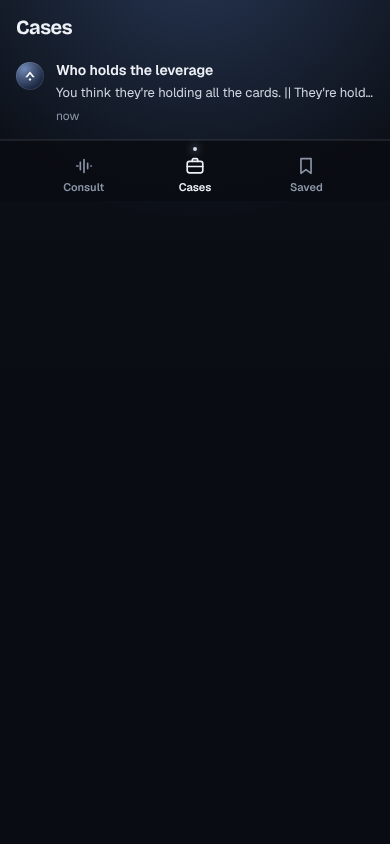
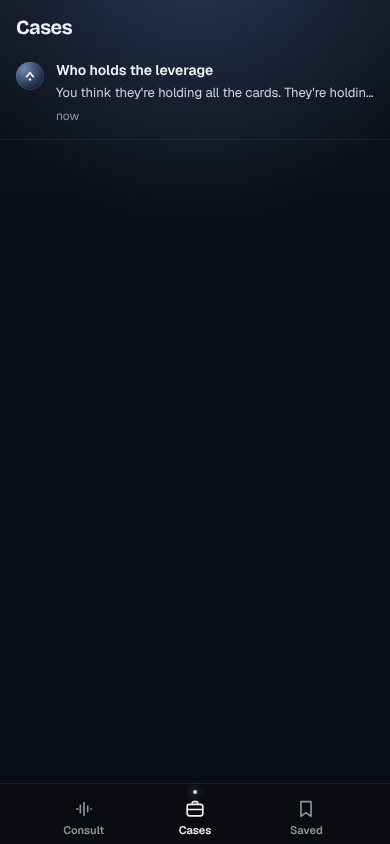
fix: the tab bar sat in the middle of three screens, and the cases excerpt leaked pause marks
Cases, saved and settings all wrap their content in main.screen-main. There is
no .screen-main rule in globals.css, so that region never grew to fill the
screen and the tab bar, which follows it in normal flow, rode up directly under
the content. On the saved tab's empty state it sat roughly 590 pixels above the
bottom of the phone with nothing below it. The empty states did not centre
either, since they use flex: 1 inside a parent that was not a flex container.

Defines .screen-main as the full bleed equivalent of .body: same growth, no
side gutter, because the rows carry their own padding and the dividers run edge
to edge.

Third defect of the same kind on this branch, after the five undefined tokens
and the missing .cta rule. An undefined class or custom property fails silently
rather than loudly, so nothing in build, typecheck or review catches it.

Separately, the cases list rendered the spoken line raw, so rows read "You
think they're holding all the cards. || They're holding a bluff." The marks are
a speech instruction, not punctuation, and screens.md section 11 already
specifies the excerpt with marks stripped (B1).

Two e2e tests added: the tab bar ends within 40 pixels of the bottom on all
three tabs, and no bar character survives into a cases row. The audit also now
waits for each list screen to finish streaming before screenshotting, since
two shots had caught loading.tsx instead of the screen.

E2e: 24 to 26, of which 22 run.
[…]

diff --git a/tests/e2e/audit.spec.ts b/tests/e2e/audit.spec.ts
@@ -118,13 +118,18 @@ test.describe("phone width and accessibility", () => {
     await checkScreen(page, "04-result");
 
     await page.goto("/cases");
+    await expect(page.getByTestId("case-row").first()).toBeVisible();
     await checkScreen(page, "05-cases");
 
     await page.getByTestId("tab-saved").click();
     await expect(page).toHaveURL(/\/saved$/);
+    // The URL changes before the server component streams, so without this the
+    // screenshot is of loading.tsx rather than the screen.
+    await expect(page.getByRole("heading", { name: "Saved" })).toBeVisible();
     await checkScreen(page, "06-saved-empty");
 
     await page.goto("/settings");
+    await expect(page.getByRole("heading", { name: "Settings" })).toBeVisible();
     await checkScreen(page, "07-settings");
 
     await page.goto("/offline");
@@ -132,6 +137,33 @@ test.describe("phone width and accessibility", () => {
 
     await page.goto("/not-a-real-route");
     await checkScreen(page, "09-not-found");
+  });
+
+  test("the tab bar sits at the bottom of every tab, not under the content", async ({ page }) => {
+    await onboardAsGuest(page);
+    await consult(page, "My landlord wants a twenty percent rent rise and I have two weeks to answer.");
+
+    for (const path of ["/cases", "/saved", "/settings"]) {
+      await page.goto(path);
+      const bar = page.getByTestId("tab-cases").locator("..");
+      const box = await bar.boundingBox();
+      expect(box, `${path}: tab bar not found`).not.toBeNull();
+      const viewport = page.viewportSize()!;
+      // The screen container has to grow for the bar to reach the bottom. When
+      // .screen-main was undefined it did not, and the bar rode up under the
+      // content, roughly 600 pixels above where it belongs.
+      expect(viewport.height - (box!.y + box!.height), `${path}: gap below the tab bar`).toBeLessThan(40);
+    }
+  });
+
+  test("the cases list shows spoken lines without their pause marks", async ({ page }) => {
+    await onboardAsGuest(page);
+    await consult(page, "They lowballed my salary offer and I have to answer by Friday morning.");
+    await page.goto("/cases");
+    const row = page.getByTestId("case-row").first();
+    await expect(row).toBeVisible();
+    // screens.md section 11: the excerpt is the line with marks stripped (B1).
+    expect(await row.textContent()).not.toContain("|");
   });
 
   test("the crisis screen passes too, and keeps its helpline reachable", async ({ page }) => {

diff --git a/app/globals.css b/app/globals.css
@@ -93,6 +93,11 @@ a { color: inherit; text-decoration: none; }
 }
 .scr { flex: 1; display: flex; flex-direction: column; min-height: 0; padding-top: var(--safe-top); }
 .body { flex: 1; min-height: 0; padding: 0 var(--gutter-r) 24px var(--gutter-l); }
+/* Full bleed scroll region for the list screens: same growth as .body, no side
+   gutter, because the rows carry their own padding and the dividers run edge to
+   edge. Without it the region does not grow, so the tab bar rides up under the
+   content instead of sitting at the bottom, and the empty states do not centre. */
+.screen-main { flex: 1; min-height: 0; display: flex; flex-direction: column; }
 .stack { display: grid; gap: 10px; grid-auto-rows: max-content; align-content: start; }
 
 /* ============ Primitives ============ */

diff --git a/app/(app)/cases/page.tsx b/app/(app)/cases/page.tsx
@@ -2,6 +2,7 @@ import Link from "next/link";
 import { getSession } from "@/lib/auth";
 import { TabBar } from "@/components/ui";
 import { relTime } from "@/lib/reltime";
+import { stripMarks } from "@/lib/spoken";
 import { Avatar } from "@/components/Persona";
 import type { CaseSummary } from "@/lib/data/types";
 
@@ -48,7 +49,7 @@ function CaseCard({ c }: { c: CaseSummary }) {
               whiteSpace: "nowrap",
             }}
           >
-            {c.latest_line}
+            {stripMarks(c.latest_line)}
           </div>
         )}
         <div style={{ fontSize: 12, color: "var(--muted)", marginTop: 4 }}>

diff --git a/docs/qa/qa-report-02.md b/docs/qa/qa-report-02.md
@@ -16,7 +16,7 @@ with no Supabase env vars present, `MOCK_AUTH` provides sessions.
 | 2. Typecheck (`npx tsc --noEmit`) | PASS |
 | 3. Lint (`npx next lint`) | PASS with 8 warnings, 0 errors |
 | 4. Unit tests (`npm test`) | PASS, 95 of 95 |
-| 5. E2e, mock mode (`npx playwright test`) | PASS, 20 of 20, 4 skipped (see D4) |
+| 5. E2e, mock mode (`npx playwright test`) | PASS, 22 of 22, 4 skipped (see D4) |
 | 6. Persona harness (`npm run harness:mock`) | PASS, 181 of 181, safety 24 of 24 |
 | 7. Copy and naming sweep | PASS |
 | 8. Accessibility | PASS on the four hard gates, 2 advisories |
@@ -25,11 +25,12 @@ with no Supabase env vars present, `MOCK_AUTH` provides sessions.
 
 Overall: **PASS**
 
-Four defects were found during this gate. Three were fixed on the branch: the cases
+Five defects were found during this gate. Four were fixed on the branch: the cases
 and saved lists threw a server exception as soon as they held any data, five CSS
 tokens used across four screens were never defined, and the primary button on the
-welcome screen had no styling at all. The fourth, D4, is a missing screen rather than
-a bug, so it is reported rather than fixed: every follow-up action on the result
+welcome screen had no styling at all, and the tab bar floated in the middle of three
+screens. The fifth, D4, is a missing screen rather than a bug, so it is reported
+rather than fixed: every follow-up action on the result
 screen is inert because the case thread it is supposed to navigate to was never
 built. Details in section 11.
 
@@ -105,9 +106,9 @@ Coverage:
 | `journey.spec.ts` | cold visit redirects to `/welcome`; persona choice; guest onboarding; a consult producing a case; starters filling the composer without sending; the mic conditional from both sides; no stacked bottom nav on the result screen; tab bar to cases and saved; a saved line reaching the saved list; the 404; the offline page; manifest and service worker |
 | `modes.spec.ts` | one test per reply mode: crisis to care with a reachable helpline and no persona language, a capability question answered without a plan, a thin situation asking for the missing facts, an out of bounds request declined with a lawful route |
 | `thread.spec.ts` | the second visit: saving and feedback surviving a reload, deleting a case. Four more tests are written and marked `fixme` against the missing thread screen, see D4 |
-| `audit.spec.ts` | phone width, accessibility and screenshots, see sections 8 to 10 |
+| `audit.spec.ts` | phone width, accessibility and screenshots, see sections 8 to 10, plus the tab bar sitting at the bottom of every tab and the cases excerpt carrying no pause marks |
 
-Verdict: **PASS**, 20 of 20 run, 4 skipped.
+Verdict: **PASS**, 22 of 22 run, 4 skipped.
 
 The four skips are `test.fixme` in `thread.spec.ts`, written against the case thread
 screen that does not exist (D4). They are deliberately left in the suite rather than
@@ -304,6 +305,26 @@ Out of scope for an unattended overnight run: F17 is an approved, fully specifie
 screen, not a defect, and building it belongs in the normal design to build to review
 loop rather than being improvised at six in the morning. Raised to the PM as P0-B.
 
+### D5: the tab bar floated in the middle of three screens, and the cases excerpt leaked pause marks
+
+Same family as D2 and D3, found the same way. Cases, saved and settings all wrap their
+content in `<main className="screen-main">`. There is no `.screen-main` rule in
+`globals.css`, so that region never grew to fill the screen. The tab bar, which is in
+normal flow after it, rode up directly under the content: on the saved tab's empty
+state it sat about 590 pixels above the bottom of the phone, with the rest of the
+screen empty below it. The empty states did not centre either, for the same reason:
+they use `flex: 1` inside a parent that was not a flex container.
+
+Defined `.screen-main` as the full bleed equivalent of `.body`: same growth, no side
+gutter, because the rows carry their own padding and the dividers run edge to edge. An
+e2e test now fails if the tab bar ends up more than 40 pixels off the bottom on any of
+the three tabs.
+
+Separately, the cases list excerpt rendered the spoken line raw, so rows read "You
+think they're holding all the cards. || They're holding a bluff." `screens.md` section
+11 specifies the excerpt with marks stripped (B1). It now uses `stripMarks`, with an
+e2e test asserting no bar character survives into a row.
+
 ---
 
 ## 12. Backlog items from release-review-02
@@ -346,11 +367,11 @@ Stated plainly so nobody reads a PASS as more than it is.
 
 ## Sign-off
 
-All ten checks pass. Four defects were found during the gate. Three are fixed on the
+All ten checks pass. Five defects were found during the gate. Four are fixed on the
 branch and covered by tests that fail if they return, including D1, which broke two of
-the app's six screens for any user with data. The fourth, D4, is a missing screen and
+the app's six screens for any user with data. The fifth, D4, is a missing screen and
 is raised to the PM rather than improvised overnight. The branch is clean on build, typecheck,
-lint, 95 unit tests, 20 e2e tests (4 skipped against D4) and 181 harness rows.
+lint, 95 unit tests, 22 e2e tests (4 skipped against D4) and 181 harness rows.
 
 **QA verdict: PASS.** Cleared for PM review on `fix/release-review-02-backlog`. Not
 cleared for public launch: D4 leaves the whole post-first-reply loop dead, the live

diff --git a/docs/reviews/release-review-03.md b/docs/reviews/release-review-03.md
@@ -22,9 +22,9 @@ harness, now run and pass. The harness in particular was reporting 0 of 181 befo
 tonight, which meant the release process had a gate that could only ever say no.
 
 The more significant finding is what running the app turned up that reading it did
-not. Four defects shipped to production and survived two source-code reviews, a clean
-build and a clean typecheck. Three are fixed on this branch, one of which broke two of
-the six screens for any user who had actually used the app.
+not. Five defects shipped to production and survived two source-code reviews, a clean build
+and a clean typecheck. Four are fixed on this branch, one of which broke two of the six
+screens for any user who had actually used the app.
 
 The fourth is the headline and it is why this review is still BLOCKED. Every
 follow-up action on the result screen is inert: new take, ask another persona, and the
@@ -142,8 +142,9 @@ action needed, and nothing to redeploy.
 
 ## Defects found by running the app
 
-These are new. None appear in review 01 or review 02, and all three were live in
-production.
+These are new. None appears in review 01 or review 02, and all were live in
+production. Numbering matches docs/qa/qa-report-02.md section 11, where the missing
+thread screen is D4; here it is P0-B, above.
 
 ### D1: the cases and saved lists crashed as soon as they had anything in them
 
@@ -196,6 +197,22 @@ the design system already defines.
 The settings one also pointed at `/sign-up`, which does not exist in the app router,
 so a guest tapping "create an account" landed on the 404.
 
+### D5: the tab bar floated in the middle of the cases, saved and settings screens
+
+`.screen-main`, the class those three screens wrap their content in, is not defined
+anywhere either. The region never grew, so the tab bar sat directly under the content
+instead of at the bottom of the phone: on the saved tab's empty state, roughly 590
+pixels up, with nothing below it. Compare the before and after of
+`shots-02/05-cases.png` if you want to see how obvious it is once you look.
+
+The cases list also printed the spoken line raw, pause bars and all: "You think they're
+holding all the cards. || They're holding a bluff." The marks are a speech instruction,
+not punctuation, and screens.md section 11 already says the excerpt is stripped.
+
+Three defects now, D2, D3 and D5, all of the same kind: a class or token that is
+referenced but never defined, failing silently rather than loudly. Worth a lint rule
+eventually. For now the audit spec catches the visible consequences.
+
 ---
 
 ## User journey walkthrough
@@ -212,7 +229,7 @@ Walked on the preview build at 390 by 844, against `docs/qa/shots-02/`.
 | Guest: keep case upsell | READY | Unchanged |
 | Sign in (magic link, Google) | BLOCKED | P1-A. The form works; the callback has nowhere valid to return to |
 | Signed in: case thread | **MISSING** | P0-B. The screen does not exist; follow-ups, another take and persona switch are all inert |
-| Signed in: cases list | FIXED | Was a server error with any content. Now renders |
+| Signed in: cases list | FIXED | Was a server error with any content. Now renders, with the tab bar in the right place and the excerpt free of pause marks |
 | Signed in: saved lines | FIXED | Same |
 | Settings | FIXED | Guest upsell no longer links to a 404 |
 | PWA install and offline | READY | `/offline` precached and served as the navigation fallback |
@@ -230,7 +247,7 @@ Walked on the preview build at 390 by 844, against `docs/qa/shots-02/`.
 | Typecheck | PASS |
 | Lint | PASS, 8 pre-existing warnings, 0 errors |
 | Unit tests | PASS, 95 of 95 (was 75) |
-| E2e, mock mode | PASS, 20 of 20 run, 4 skipped against P0-B (was: no config, gate skipped) |
+| E2e, mock mode | PASS, 22 of 22 run, 4 skipped against P0-B (was: no config, gate skipped) |
 | Persona harness, contract layer | PASS, 181 of 181, safety 24 of 24 (was 0 of 181) |
 | Copy and naming sweep | PASS, zero em or en dashes in code, docs, copy or commit messages |
 | Accessibility hard gates | PASS |
